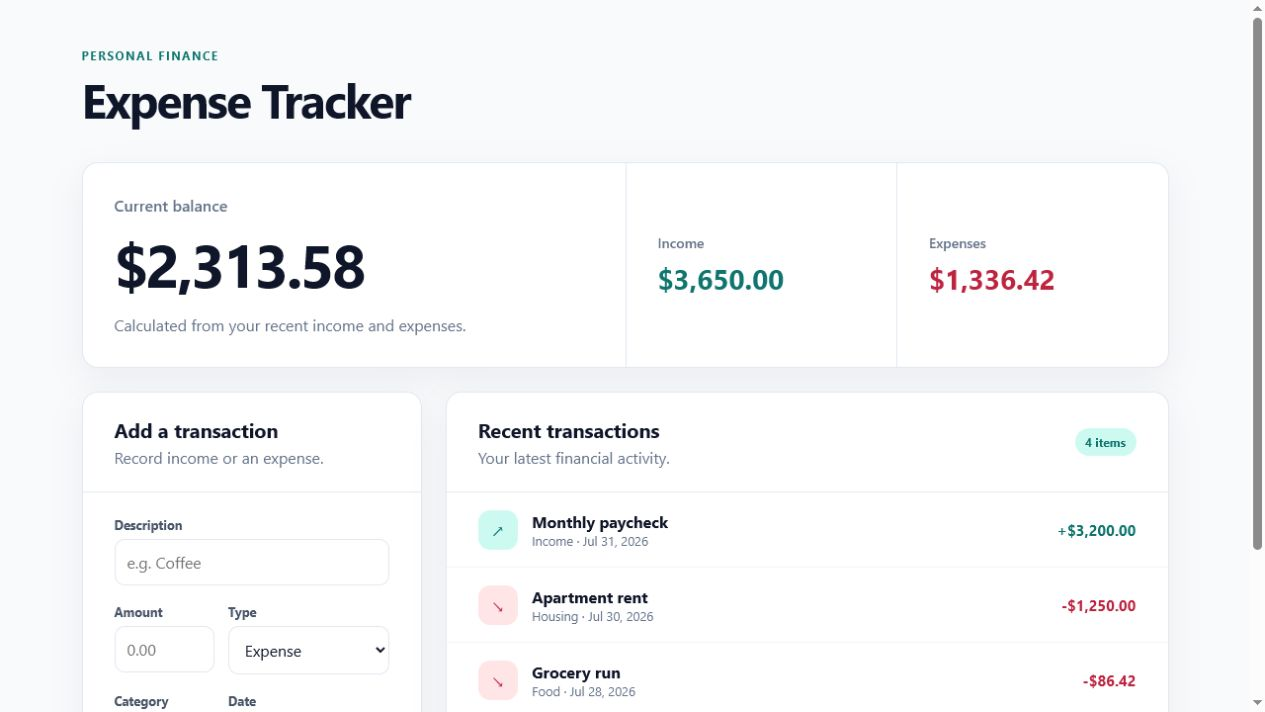
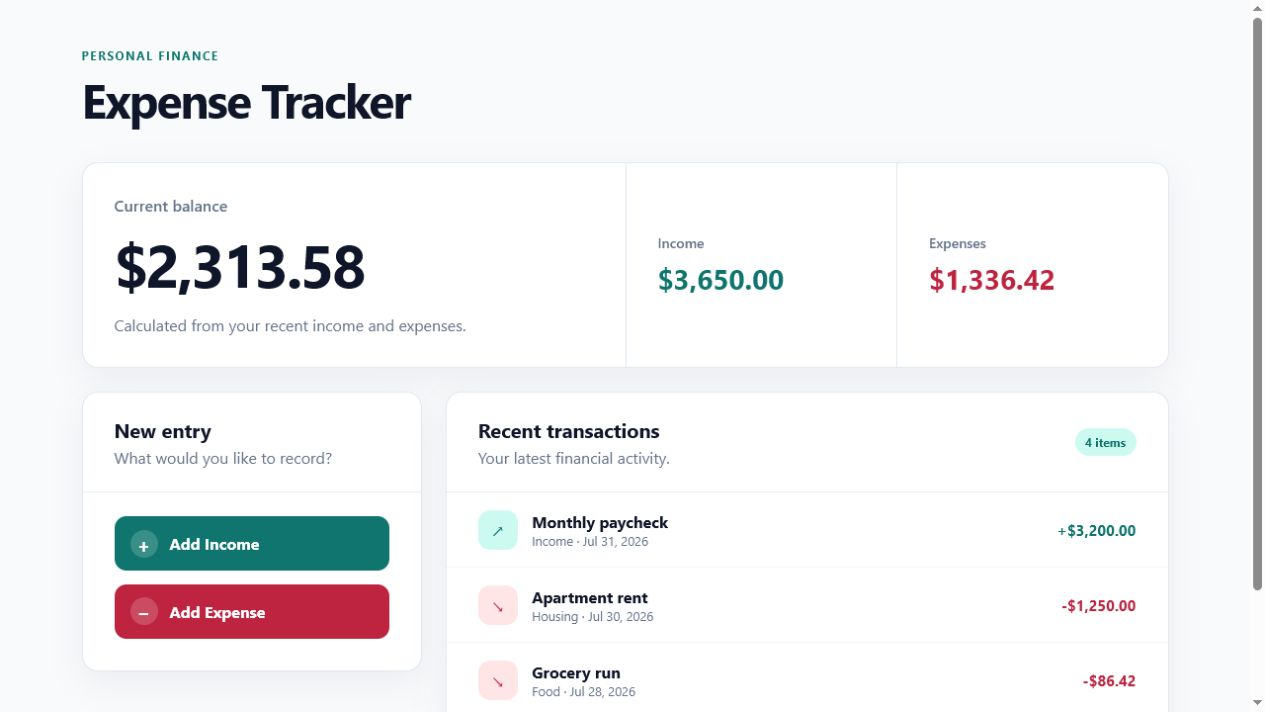
docs: update working demo screenshots

diff --git a/README.md b/README.md
@@ -11,6 +11,23 @@ adding income and expenses. Each action opens a focused modal form with the
 transaction type already selected. New entries immediately update the summary
 totals, item count, and recent-transactions list.
 
+### Transaction dashboard
+
+![Expense Tracker dashboard with Add Income and Add Expense actions](docs/expense-tracker-demo.png)
+
+### Add Income
+
+The income category is preselected and locked so income entries are always
+classified consistently.
+
+![Add Income modal with the Income category selected](docs/expense-tracker-income-modal.png)
+
+### Add Expense
+
+The expense form offers only expense-related category choices.
+
+![Add Expense modal with expense categories](docs/expense-tracker-expense-modal.png)
+
 ## Current features
 
 - Reusable summary, form, list, and transaction-item components
